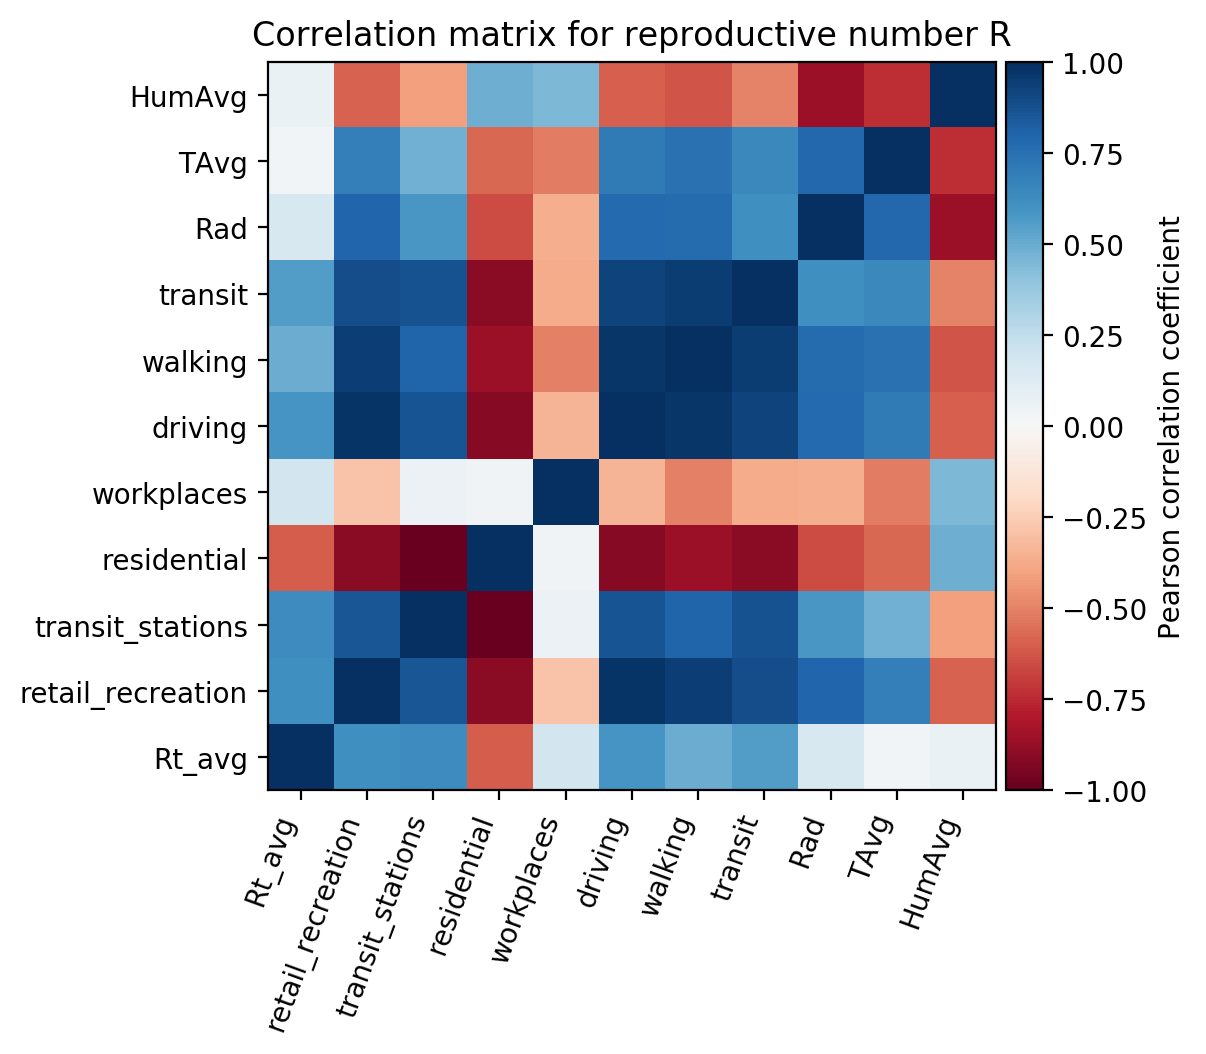
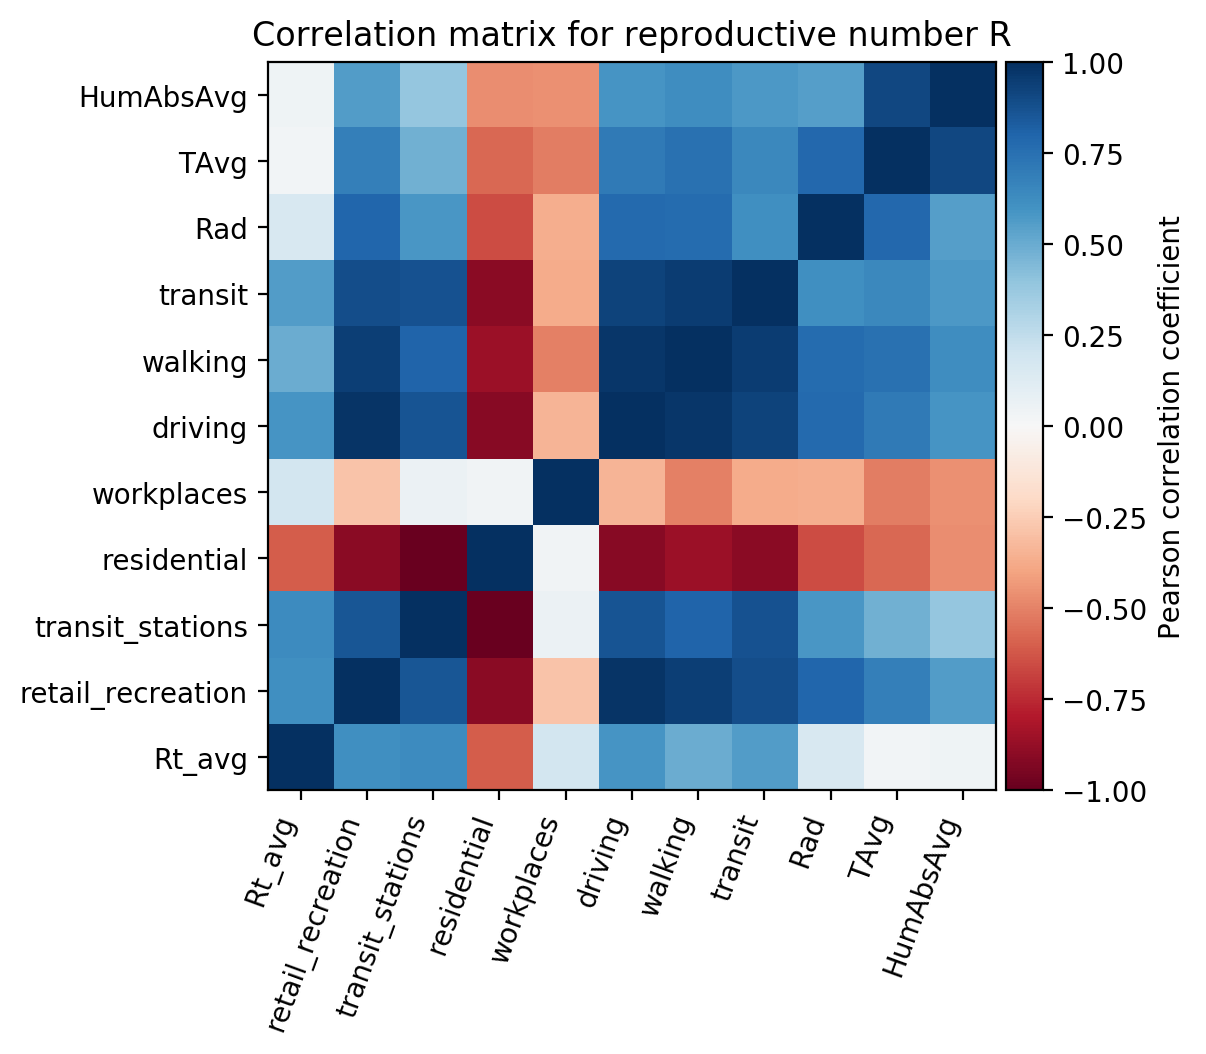
Added calculation of absolute humidity to the correlation calculations.

Changed region(s): [[0.2761, 0.0607, 0.8284, 0.6983], [0.7363, 0.7894, 0.7977, 0.9412], [0.0614, 0.0607, 0.1534, 0.1214]]

diff --git a/model_coronavirus_supression.py b/model_coronavirus_supression.py
@@ -7,6 +7,7 @@ import matplotlib.pyplot as plt
 import matplotlib.dates as mdates
 import matplotlib.colors as mcolors
 import matplotlib.cm as cmx
+from matplotlib.ticker import MaxNLocator
 from mpl_toolkits.axes_grid1 import make_axes_locatable
 # import matplotlib.patches as mpatches
 
@@ -286,7 +287,7 @@ def rel_humidity_conversion(RH, T, Ptot = None, humidity_type = 'absolute'):
 		#eq 14
 		X = B*Pw/(Ptot - Pw)
 
-		return X.to(u.g/u.kg)
+		return X/(u.g/u.kg)
 	else:
 		raise ValueError('No proper desired humidity type given')
 
@@ -902,7 +903,7 @@ def load_cluster_data():
 
 	return df_clusters
 
-def load_weather_data(smooth = False):
+def load_weather_data(smooth = False, abs_hum = False):
 	"""
 	Load weather data from the KNMI, location De Bilt. More info:
 	https://www.knmi.nl/nederland-nu/klimatologie/daggegevens
@@ -932,9 +933,9 @@ def load_weather_data(smooth = False):
 		#also remove zip file
 		# os.remove(google_mobility_fname_zip)
 
-	df_weather = pd.read_csv(fname_weather, skiprows = 47, usecols = ['YYYYMMDD', '   TG', '    Q', '   UG'])
+	df_weather = pd.read_csv(fname_weather, skiprows = 47, usecols = ['YYYYMMDD', '   TG', '    Q', '   UG', '   PG'])
 
-	df_weather = df_weather.rename(columns = {'YYYYMMDD': 'Date', '   TG': 'TAvg', '    Q': 'Rad', '   UG': 'HumAvg'})
+	df_weather = df_weather.rename(columns = {'YYYYMMDD': 'Date', '   TG': 'TAvg', '    Q': 'Rad', '   UG': 'HumAvg', '   PG': 'P'})
 
 	df_weather['Date'] = pd.to_datetime(df_weather['Date'], format = '%Y%m%d')
 	df_weather.set_index('Date', inplace = True)
@@ -944,6 +945,9 @@ def load_weather_data(smooth = False):
 
 	#convert average temperature from 0.1 degrees C to 1 degree C
 	df_weather['TAvg'] /= 10
+
+	#calculate the absolute humidity (sometimes known as mixing ratio)
+	df_weather['HumAbsAvg'] = rel_humidity_conversion(df_weather['HumAvg'].values, df_weather['TAvg'].values*u.deg_C, Ptot = df_weather['P'].values*10*u.Pa, humidity_type = 'mixing ratio').decompose()
 
 	#smooth data if desired
 	if smooth:
@@ -1555,7 +1559,7 @@ def plot_cluster_change():
 
 def plot_R_versus_weather(startdate = '2020-06-15'):
 	df_prevalence, df_R = load_prevalence_R0_data()
-	df_weather = load_weather_data(smooth = False)
+	df_weather = load_weather_data(smooth = False, abs_hum = True)
 
 	#merge datasets
 	df_plot = df_R.join(df_weather, how = 'inner')
@@ -1566,8 +1570,8 @@ def plot_R_versus_weather(startdate = '2020-06-15'):
 	axs = axs.flatten()
 
 	colours = ['maroon', 'navy', 'green']
-	params = ['TAvg', 'Rad', 'HumAvg']
-	labels = ['Daily average temperature [C]', 'Daily average solar radiation [J/cm$^2$]', 'Daily average relative humidity [%]']
+	params = ['TAvg', 'Rad', 'HumAbsAvg']
+	labels = ['Daily average temperature [C]', 'Daily average solar radiation [J/cm$^2$]', 'Daily average absolute humidity [g/kg]']
 
 	for i in range(len(params)):
 		axs[i].scatter(df_plot[params[i]], df_plot['Rt_avg'], facecolor = colours[i], edgecolor = 'none', s = 3)
@@ -1575,7 +1579,7 @@ def plot_R_versus_weather(startdate = '2020-06-15'):
 		axs[i].grid(linestyle = ':')
 		axs[i].set_xlabel(labels[i], fontsize = 8.5)
 
-		axs[i].xaxis.set_major_locator(MaxNLocator(prune = 'right'))
+		# axs[i].xaxis.set_major_locator(MaxNLocator(prune = 'upper'))
 
 		if i == 0:
 			axs[i].set_ylabel('R')
@@ -1584,7 +1588,7 @@ def plot_R_versus_weather(startdate = '2020-06-15'):
 
 	axs[1].set_title(f'R versus various weather observables since {startdate}')
 
-	plt.savefig(f'{plotloc}R_dependence_weather.png', dpi = 200, bbox_inches = 'tight')
+	plt.savefig(f'{mobplotloc}R_dependence_weather.png', dpi = 200, bbox_inches = 'tight')
 	plt.close()
 
 
@@ -1787,7 +1791,7 @@ def estimate_recent_R(enddate_train = '2020-10-25'):
 	df_prevalence, df_R = load_prevalence_R0_data()
 	df_google_mob, df_apple_mob = load_mobility_data(smooth = True)
 	df_sewage = load_sewage_data(smooth = True, shiftdates = True)
-	df_weather = load_weather_data(smooth = True)
+	df_weather = load_weather_data(smooth = True, abs_hum = True)
 	#for the plot as a reference as well as data input
 	df_response = load_government_response_data()
 	df_response_plot = df_response.loc[df_response.index > startdate_pred]
@@ -1871,7 +1875,7 @@ def estimate_recent_R(enddate_train = '2020-10-25'):
 		plt.close()
 
 	### determine correlation matrix for all these parameters
-	if False:
+	if True:
 		compare_parameters = [
 			'Rt_avg',
 			'retail_recreation_smooth',
@@ -1883,7 +1887,7 @@ def estimate_recent_R(enddate_train = '2020-10-25'):
 			'transit_smooth',
 			'Rad',
 			'TAvg',
-			'HumAvg'
+			'HumAbsAvg'
 		]
 
 		#remove the "_smooth" part in the parameters names for better plotting
@@ -1934,8 +1938,8 @@ def estimate_recent_R(enddate_train = '2020-10-25'):
 			'walking_smooth',
 			'transit_smooth',
 			'Rad',
-			'TAvg'
-			# 'HumAvg'
+			'TAvg',
+			'HumAbsAvg'
 		]
 		#get the multiple parameters into a single array
 		X = dataframes_to_NDarray(df_train, best_correlating_metrics)
@@ -2289,11 +2293,8 @@ def main():
 	# plot_individual_data()
 	# plot_cluster_change()
 
-	# estimate_recent_R(enddate_train = '2020-11-19')
+	estimate_recent_R(enddate_train = '2020-11-19')
 	# estimate_recent_prevalence(enddate_train = '2020-11-25')
-
-	X = rel_humidity_conversion(80, 20*u.deg_C, Ptot = 100000*u.Pa, humidity_type = 'mixing ratio')
-	print(X)
 
 if __name__ == '__main__':
 	main()

diff --git a/README.md b/README.md
@@ -27,6 +27,8 @@ NICE intensive care data: [link](https://www.databronnencovid19.nl/Bron?naam=Nat
 Corona Locator, with a plethora of data: [link](https://bddataplan.nl/corona/)
 - Up to date clusters: [link](https://coronalocator.knack.com/corona-locator#cluster-meldingen/?view_670_per_page=5000&view_670_page=1&view_641_0_filters=%5B%7B%22value%22%3A%22%22%2C%22text%22%3A%22Alles%22%2C%22operator%22%3A%22is%20not%20blank%22%2C%22field%22%3A%22field_563%22%7D%5D&view_641_1_filters=%5B%7B%22value%22%3A%22%22%2C%22text%22%3A%22Alle%22%2C%22operator%22%3A%22is%20not%20blank%22%2C%22field%22%3A%22field_563%22%7D%5D)
 
+Weather data: [KNMI](https://www.knmi.nl/nederland-nu/klimatologie/daggegevens)
+
 #### Other international data
 
 Superspreader event database: [article](https://kmswinkels.medium.com/covid-19-superspreading-events-database-4c0a7aa2342b), [Google docs database](https://docs.google.com/spreadsheets/d/1c9jwMyT1lw2P0d6SDTno6nHLGMtpheO9xJyGHgdBoco/edit#gid=1812932356)
@@ -102,17 +104,20 @@ Predicting the reproductive number R with the following input parameters since 1
 'TAvg'
 ```
 
-Gives a 20% test set R^2 = 0.851. Now to tinker with the data (date of tinkering: 15-12-2020):
+Gives a 20% test set R^2 = 0.851. Now to tinker with the data (date of tinkering: 16-12-2020):
 - Removing `TAvg` (average daily temperature) gives a test set R^2 = 0.841.
-- Removing `TAvg` and adding `HumAvg` (average daily humidity) gives a test set R^2 = 0.842.
+- Removing `TAvg` and adding `HumAvg` (average daily relative humidity) gives a test set R^2 = 0.842.
 - Adding `HumAvg` (and having `TAvg` included too) gives a test set R^2 = 0.854.
+- Removing `TAvg` and adding `HumAbsAvg` (average daily absolute humidity) gives a test set R^2 = 0.854.
+- Adding `HumAbsAvg` (and having `TAvg` included too) gives a test set R^2 = 0.854.
 
-So adding the `HumAvg` parameter "adds" an R^2 of ~0.003, barely any impact.
+So adding the `HumAvg` parameter "adds" an R^2 of ~0.003, barely any impact. The `HumAbsAvg` parameter has the same impact as the temperature. The temperature is part of the calculation for the absolute humidity from the relative humidity, so it seems that the temperature is the sole impact factor.
 
 When looking at the correlation matrix we obtain the following Pearson correlation coefficients for the weather parameters:
 - Average daily solar radiation: 0.161
 - Average daily temperature: -0.026
-- Average daily relative humidity: 0.065
+- Average daily relative humidity [%]: 0.065
+- Average daily absolute humidity [g/kg]: 0.045
 
 
 ### Literature
